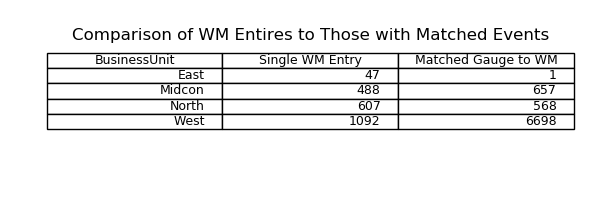
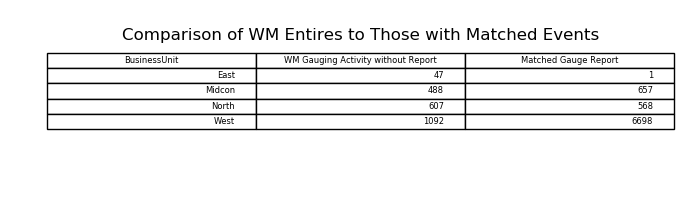
fixing titles

diff --git a/analyze.py b/analyze.py
@@ -169,9 +169,9 @@ def gauge_events(df):
 				pd.Grouper(freq='M', key='Action Date')).count().reset_index()
 
 		axis.bar(both_df['Action Date'].values, both_df['gauge'].values, 25, color='#0e2bce', \
-			   alpha=.6, label='WM Gauges')
+			   alpha=.6, label='Matched Gauge Report')
 		axis.bar(wm_df['Action Date'].values, wm_df['gauge'].values, 25, color='#000d56', \
-			   alpha=.4, label='WM Events')
+			   alpha=.4, label='Unmatched WM Gauge')
 		axis.set_title('{}'.format(bu))
 		axis.legend()
 		axis.xaxis.set_visible(True)
@@ -199,11 +199,11 @@ def gauge_events(df):
 
 def gauge_table_plot(df):
 	plt.close()
-	fig, ax = plt.subplots(1, 1, figsize=(6, 2))
+	fig, ax = plt.subplots(1, 1, figsize=(7, 2))
 
 	ax.axis('off')
-	ax.table(cellText=df.values, colLabels=['BusinessUnit', 'Single WM Entry', \
-											'Matched Gauge to WM'], loc='center')
+	ax.table(cellText=df.values, colLabels=['BusinessUnit', 'WM Gauging Activity without Report', \
+											'Matched Gauge Report'], loc='center')
 	plt.tight_layout()
 	plt.title('Comparison of WM Entires to Those with Matched Events', y=.8)
 	plt.savefig('figures/gauge_table.png')
